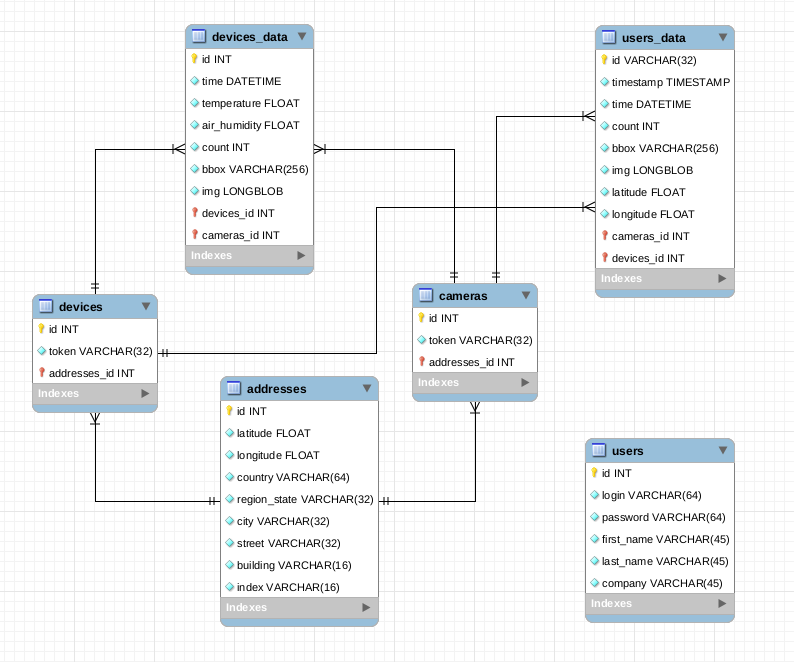
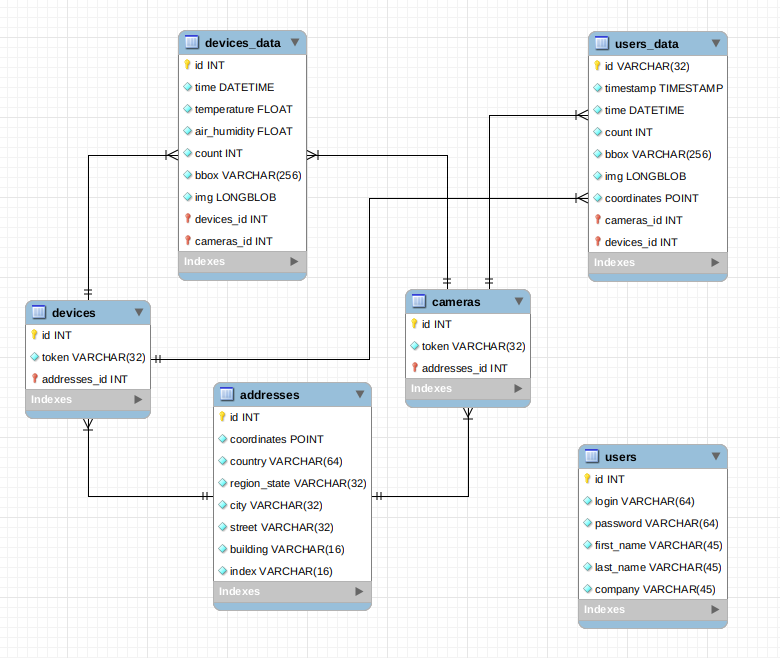
update er image

diff --git a/server/server/database/Queries.py b/server/server/database/Queries.py
@@ -1,4 +1,4 @@
 class Queries:
     SAVE_DATA = 'INSERT INTO test.test_table(id, temp, hum, count) VALUES (MD5(NOW(3)), %s, %s, %s);'
 
-    TEST = 'SELECT X(point), Y(point) FROM addresses WHERE id = 3;'
+    TEST = 'SELECT X(coordinates), Y(coordinates) FROM addresses WHERE id = 1;'
